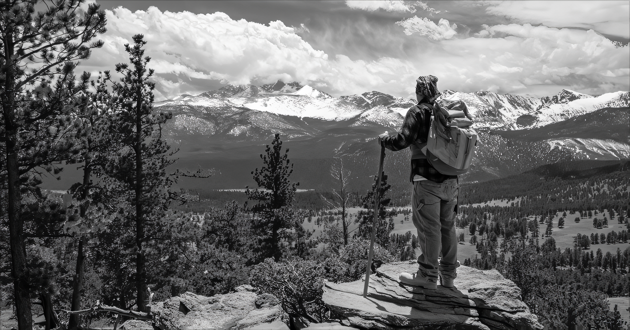
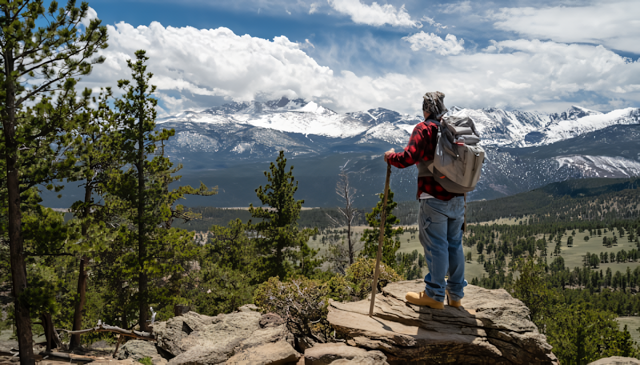
aos 추가

diff --git a/index.html b/index.html
@@ -8,10 +8,12 @@
       rel="stylesheet"
       href="https://fonts.googleapis.com/css2?family=Material+Symbols+Outlined:opsz,wght,FILL,GRAD@20..48,100..700,0..1,-50..200"
     />
+    <link href="https://unpkg.com/aos@2.3.1/dist/aos.css" rel="stylesheet" />
     <link rel="stylesheet" href="./assets/css/comm.css" />
     <script src="https://unpkg.co/gsap@3/dist/gsap.min.js"></script>
     <script src="https://unpkg.com/gsap@3/dist/ScrollTrigger.min.js"></script>
     <script src="https://unpkg.com/gsap@3/dist/ScrollToPlugin.min.js"></script>
+    <script src="https://unpkg.com/aos@2.3.1/dist/aos.js"></script>
     <script defer src="./assets/js/comm.js"></script>
   </head>
   <body>
@@ -74,7 +76,7 @@
                     <div class="inner">
                       <div class="box">
                         <div class="txt-btn-wrap">
-                          <div class="txt-wrap">
+                          <div class="txt-wrap" data-aos="fade-in">
                             <span class="mini-tit">BRAND</span>
                             <h2 class="tit">
                               <span>National Geographic</span>

diff --git a/assets/scss/_main.scss b/assets/scss/_main.scss
@@ -90,6 +90,15 @@
     width: 600px;
     height: 330px;
     object-fit: cover;
+    -webkit-filter: grayscale(100%);
+    filter: grayscale(100%);
+    -webkit-transition: 0.3s ease-in-out;
+    transition: 0.3s ease-in-out;
+
+    &:hover {
+      -webkit-filter: grayscale(0);
+      filter: grayscale(0);
+    }
   }
 }
 //-------------------------------------------------------

diff --git a/assets/css/comm.css b/assets/css/comm.css
@@ -578,6 +578,11 @@ legend {
   height: 330px;
   -o-object-fit: cover;
      object-fit: cover;
+  filter: grayscale(100%);
+  transition: 0.3s ease-in-out;
+}
+#panel-1 .brand-img:hover {
+  filter: grayscale(0);
 }
 
 #panels #panels-container #panel-2 {

diff --git a/assets/js/comm.js b/assets/js/comm.js
@@ -45,3 +45,7 @@ tween = gsap.to(panels, {
     end: () => "+=" + (panelsContainer.offsetWidth - innerWidth),
   },
 });
+
+AOS.init({
+  duration: 800,
+});
